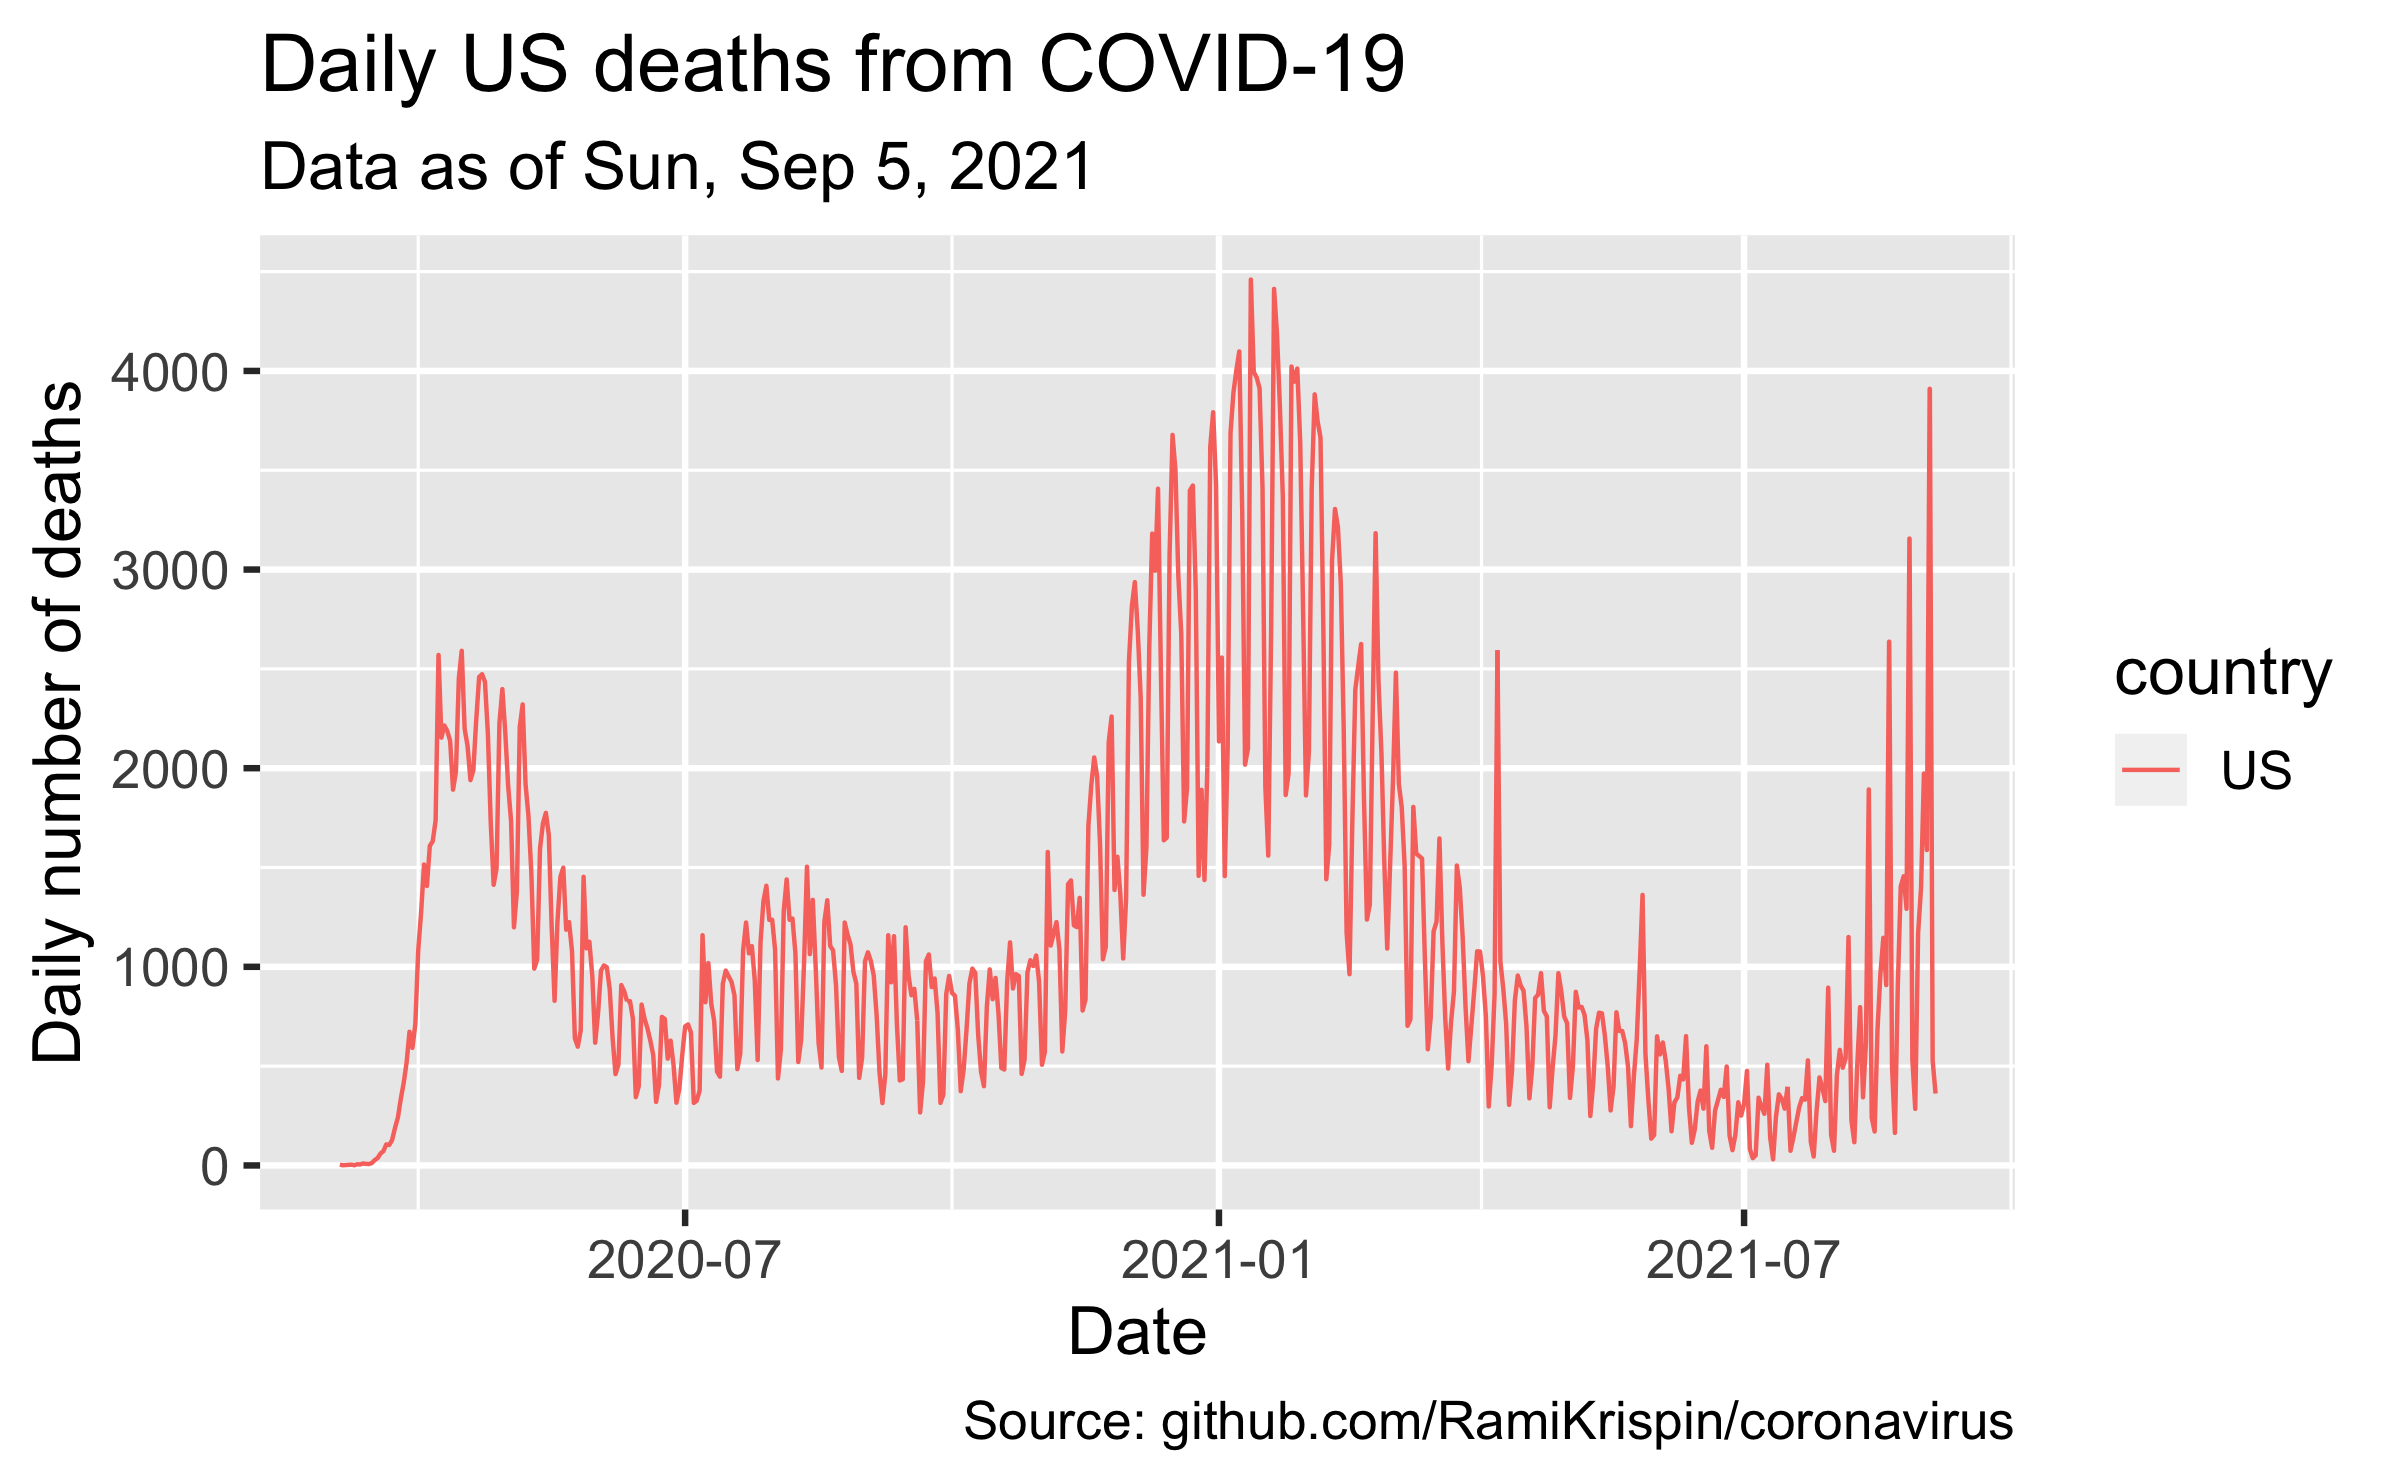
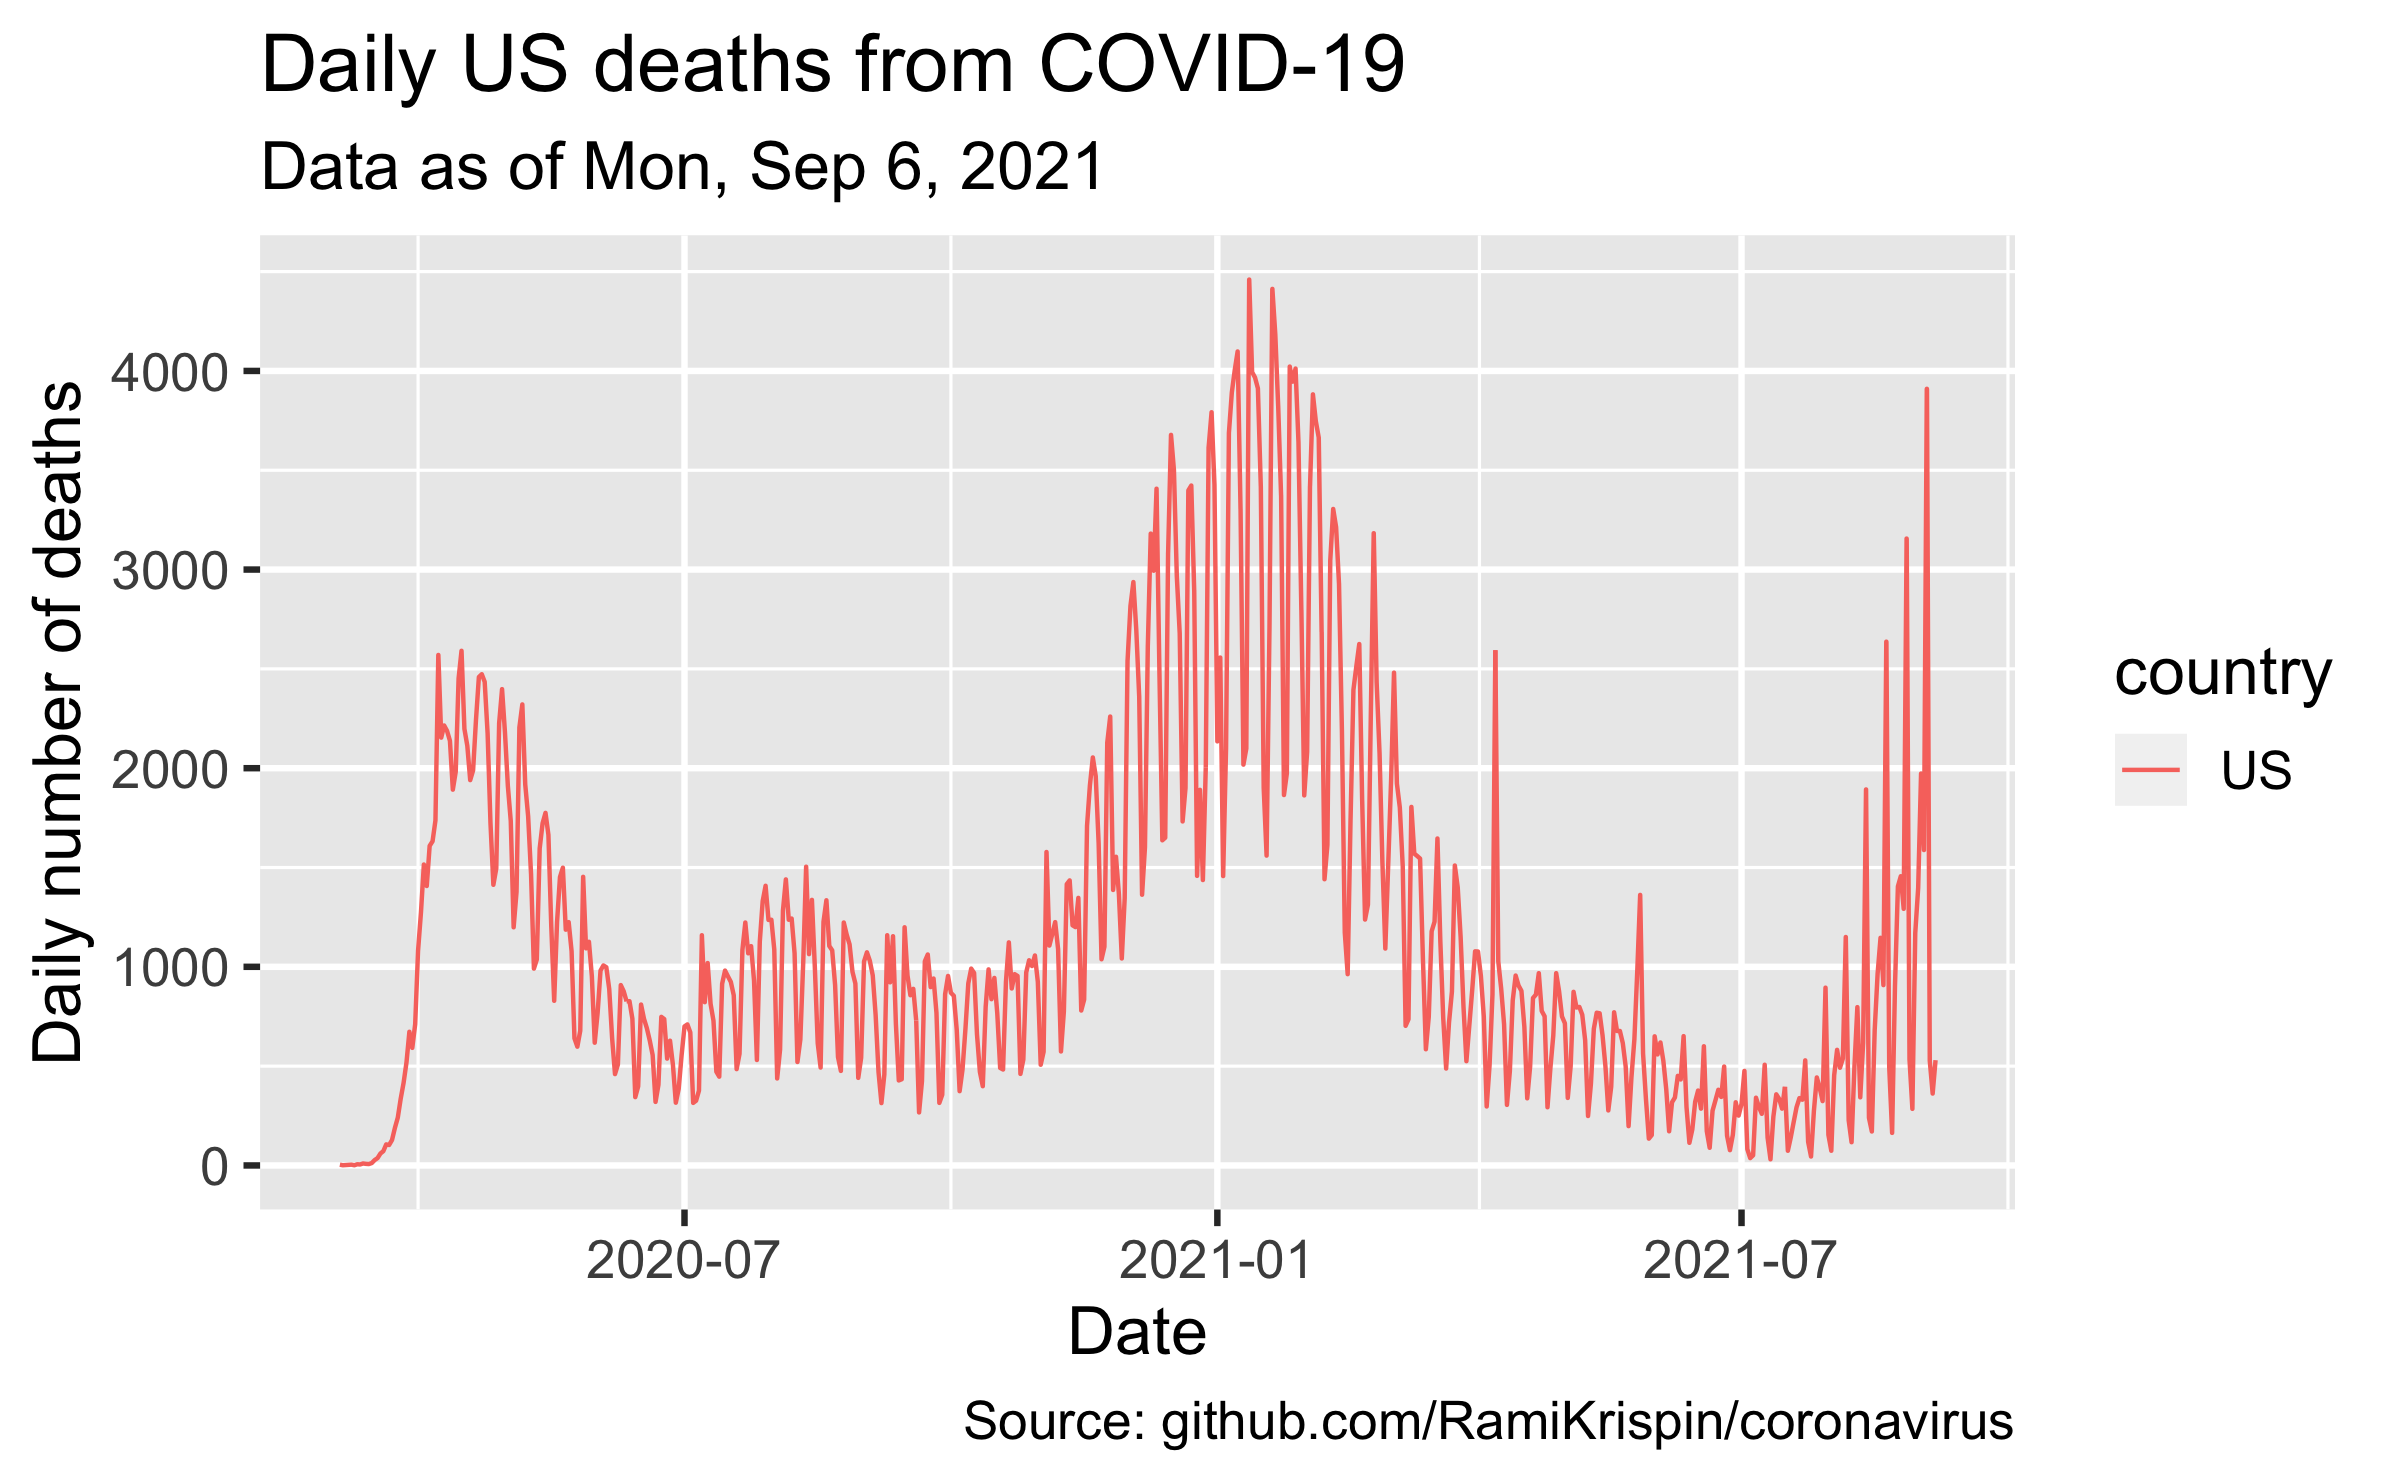
update prob slides for tomorrow

diff --git a/docs/slides/week-04/w4-l03-tidying.html b/docs/slides/week-04/w4-l03-tidying.html
@@ -548,6 +548,56 @@ First, we should call the libraries we used to make the plot during the first we
 library(devtools) #to install package from GitHub
 #reinstall coronavirus package to update #'s (they update daily)
 devtools::install_github("RamiKrispin/coronavirus")
+```
+
+```
+## utf8        (1.2.1 -&gt; 1.2.2) [CRAN]
+## pillar      (1.6.1 -&gt; 1.6.2) [CRAN]
+## tibble      (3.1.2 -&gt; 3.1.4) [CRAN]
+## waldo       (0.2.5 -&gt; 0.3.0) [CRAN]
+## R6          (2.5.0 -&gt; 2.5.1) [CRAN]
+## xfun        (0.24  -&gt; 0.25 ) [CRAN]
+## stringi     (1.7.3 -&gt; 1.7.4) [CRAN]
+## cachem      (1.0.5 -&gt; 1.0.6) [CRAN]
+## openssl     (1.4.4 -&gt; 1.4.5) [CRAN]
+## credentials (1.3.0 -&gt; 1.3.1) [CRAN]
+## gert        (1.3.1 -&gt; 1.3.2) [CRAN]
+## testthat    (3.0.3 -&gt; 3.0.4) [CRAN]
+## 
+##   There is a binary version available but the source
+##   version is later:
+##         binary source needs_compilation
+## openssl  1.4.4  1.4.5              TRUE
+## 
+## 
+## The downloaded binary packages are in
+## 	/var/folders/qz/j70pv28n1bsfj347f8fh3zhc0000gn/T//RtmpOsZfA7/downloaded_packages
+##   
+   checking for file ‘/private/var/folders/qz/j70pv28n1bsfj347f8fh3zhc0000gn/T/RtmpOsZfA7/remotes12d252399fa8f/RamiKrispin-coronavirus-df000e1/DESCRIPTION’ ...
+  
+✓  checking for file ‘/private/var/folders/qz/j70pv28n1bsfj347f8fh3zhc0000gn/T/RtmpOsZfA7/remotes12d252399fa8f/RamiKrispin-coronavirus-df000e1/DESCRIPTION’
+## 
+  
+─  preparing ‘coronavirus’:
+##    checking DESCRIPTION meta-information ...
+  
+✓  checking DESCRIPTION meta-information
+## 
+  
+─  checking for LF line-endings in source and make files and shell scripts
+## 
+  
+─  checking for empty or unneeded directories
+## 
+  
+─  building ‘coronavirus_0.3.3.tar.gz’
+## 
+  
+   
+## 
+```
+
+```r
 library(coronavirus)
 library(lubridate) #to facilitate working with dates
 library(glue) #we use in formatting the date
@@ -652,7 +702,7 @@ as_of_date &lt;- country_data %&gt;%
 as_of_date_formatted &lt;- glue("{wday(as_of_date, label = TRUE)}, {month(as_of_date, label = TRUE)} {day(as_of_date)}, {year(as_of_date)}")
 ```
 
-These data are as of Sun, Sep 5, 2021.
+These data are as of Mon, Sep 6, 2021.
 
 ---
 

diff --git a/static/slides/week-04/w4-l03-tidying.html b/static/slides/week-04/w4-l03-tidying.html
@@ -548,6 +548,56 @@ First, we should call the libraries we used to make the plot during the first we
 library(devtools) #to install package from GitHub
 #reinstall coronavirus package to update #'s (they update daily)
 devtools::install_github("RamiKrispin/coronavirus")
+```
+
+```
+## utf8        (1.2.1 -&gt; 1.2.2) [CRAN]
+## pillar      (1.6.1 -&gt; 1.6.2) [CRAN]
+## tibble      (3.1.2 -&gt; 3.1.4) [CRAN]
+## waldo       (0.2.5 -&gt; 0.3.0) [CRAN]
+## R6          (2.5.0 -&gt; 2.5.1) [CRAN]
+## xfun        (0.24  -&gt; 0.25 ) [CRAN]
+## stringi     (1.7.3 -&gt; 1.7.4) [CRAN]
+## cachem      (1.0.5 -&gt; 1.0.6) [CRAN]
+## openssl     (1.4.4 -&gt; 1.4.5) [CRAN]
+## credentials (1.3.0 -&gt; 1.3.1) [CRAN]
+## gert        (1.3.1 -&gt; 1.3.2) [CRAN]
+## testthat    (3.0.3 -&gt; 3.0.4) [CRAN]
+## 
+##   There is a binary version available but the source
+##   version is later:
+##         binary source needs_compilation
+## openssl  1.4.4  1.4.5              TRUE
+## 
+## 
+## The downloaded binary packages are in
+## 	/var/folders/qz/j70pv28n1bsfj347f8fh3zhc0000gn/T//RtmpOsZfA7/downloaded_packages
+##   
+   checking for file ‘/private/var/folders/qz/j70pv28n1bsfj347f8fh3zhc0000gn/T/RtmpOsZfA7/remotes12d252399fa8f/RamiKrispin-coronavirus-df000e1/DESCRIPTION’ ...
+  
+✓  checking for file ‘/private/var/folders/qz/j70pv28n1bsfj347f8fh3zhc0000gn/T/RtmpOsZfA7/remotes12d252399fa8f/RamiKrispin-coronavirus-df000e1/DESCRIPTION’
+## 
+  
+─  preparing ‘coronavirus’:
+##    checking DESCRIPTION meta-information ...
+  
+✓  checking DESCRIPTION meta-information
+## 
+  
+─  checking for LF line-endings in source and make files and shell scripts
+## 
+  
+─  checking for empty or unneeded directories
+## 
+  
+─  building ‘coronavirus_0.3.3.tar.gz’
+## 
+  
+   
+## 
+```
+
+```r
 library(coronavirus)
 library(lubridate) #to facilitate working with dates
 library(glue) #we use in formatting the date
@@ -652,7 +702,7 @@ as_of_date &lt;- country_data %&gt;%
 as_of_date_formatted &lt;- glue("{wday(as_of_date, label = TRUE)}, {month(as_of_date, label = TRUE)} {day(as_of_date)}, {year(as_of_date)}")
 ```
 
-These data are as of Sun, Sep 5, 2021.
+These data are as of Mon, Sep 6, 2021.
 
 ---
 

diff --git a/docs/slides/week-03/w3-l01-probinaction.html b/docs/slides/week-03/w3-l01-probinaction.html
@@ -101,6 +101,8 @@ Craft a short press release on the InteliSwab at-home COVID test approval. In yo
 
 Caveat: The FDA study was not conducted on a random sample of the population but involved stratified sampling, with oversampling of presumed cases. The probability a negative InteliSwab test is "right" (assuming RT-PCR tells the truth) will depend on the background prevalence of COVID in the population, so you may wish to vary this quantity when doing your calculations to reflect a random sample in a realistic setting rather than the enriched population used by the company.
 
+So for example, try the calculations with the roughly 2% positive COVID tests from the week before last and again with last week's roughly 0.5% positive tests (assume these are RTPCR).
+
 
 ---
 
@@ -132,6 +134,7 @@ Using these data, calculate the following probabilities. Let the event `\(A\)` d
 - `\(P(B)\)`, the probability a women in Washington state is missing
 - `\(P(B \mid A)\)`, the probability a woman in Washington state is missing given that she is American Indian or Alaska Native
 - `\(P(B \mid \overline{A})\)`, the probability a woman in Washington state is missing given that she is not American Indian or Alaska Native
+- Relative risk of being missing given that you're AI/AN compared with all the other races, `\(RR=\frac{P(B \mid A)}{P(B \mid \overline{A})}\)`
 - `\(P(A \mid B)\)`, the probability a woman in Washington state is American Indian or Alaska Native given that a woman is missing
 
 ---

diff --git a/static/slides/week-03/w3-l01-probinaction.html b/static/slides/week-03/w3-l01-probinaction.html
@@ -101,6 +101,8 @@ Craft a short press release on the InteliSwab at-home COVID test approval. In yo
 
 Caveat: The FDA study was not conducted on a random sample of the population but involved stratified sampling, with oversampling of presumed cases. The probability a negative InteliSwab test is "right" (assuming RT-PCR tells the truth) will depend on the background prevalence of COVID in the population, so you may wish to vary this quantity when doing your calculations to reflect a random sample in a realistic setting rather than the enriched population used by the company.
 
+So for example, try the calculations with the roughly 2% positive COVID tests from the week before last and again with last week's roughly 0.5% positive tests (assume these are RTPCR).
+
 
 ---
 
@@ -132,6 +134,7 @@ Using these data, calculate the following probabilities. Let the event `\(A\)` d
 - `\(P(B)\)`, the probability a women in Washington state is missing
 - `\(P(B \mid A)\)`, the probability a woman in Washington state is missing given that she is American Indian or Alaska Native
 - `\(P(B \mid \overline{A})\)`, the probability a woman in Washington state is missing given that she is not American Indian or Alaska Native
+- Relative risk of being missing given that you're AI/AN compared with all the other races, `\(RR=\frac{P(B \mid A)}{P(B \mid \overline{A})}\)`
 - `\(P(A \mid B)\)`, the probability a woman in Washington state is American Indian or Alaska Native given that a woman is missing
 
 ---
